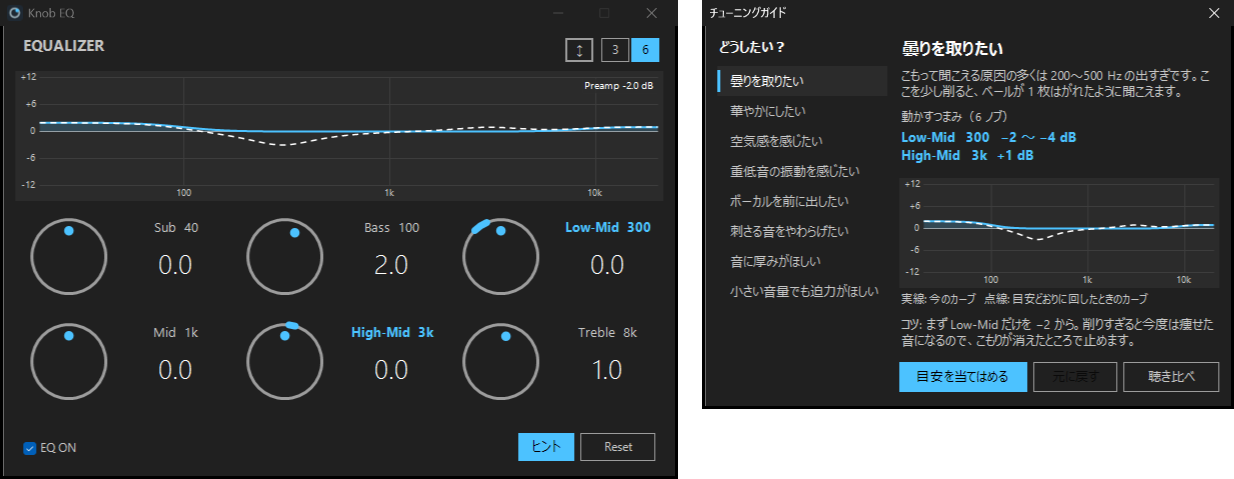
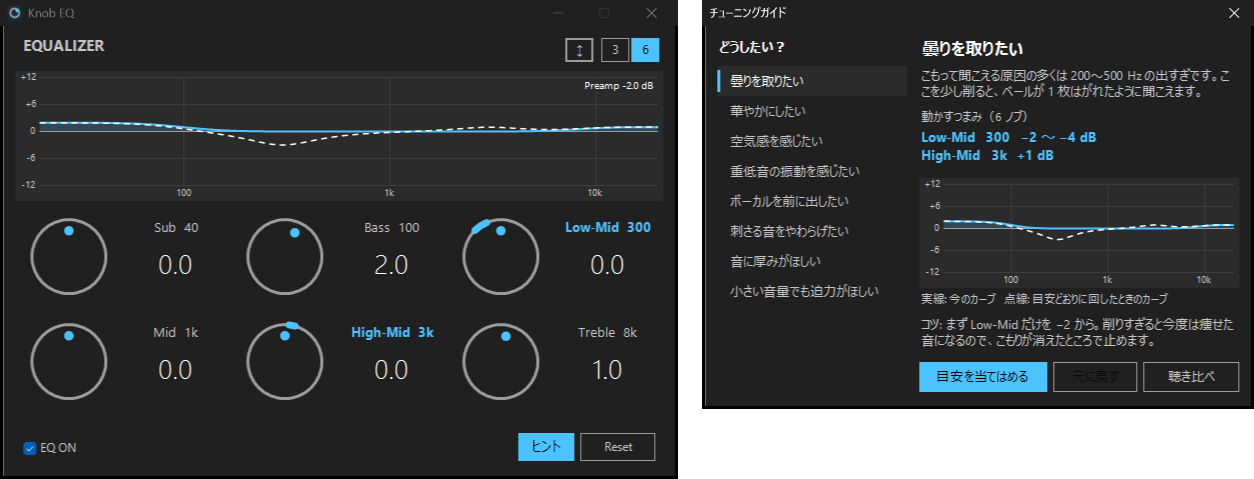
英語に対応
Windows の表示言語が日本語なら日本語、それ以外は英語で表示する。

- 文言を L.T("日本語", "English") で並べて書き、起動時に表示言語で切り替える
- チューニングガイドの 8 つの目的・説明・コツ (3 ノブ / 6 ノブ) を英訳。
  言語が決まってから作るよう、目的の一覧は最初に使われたときに作る
- 注意表示、ボタン、ツールチップ、エラーメッセージ、knobeq.txt の
  先頭コメントも英語に対応
- 英語の目的名が入るよう、ガイドの一覧の幅を 170 から 190 に広げた
- 見た目確認用ビルドで KNOBEQ_LANG (ja / en) と KNOBEQ_WARN=none を使えるようにし、
  make-screenshots.ps1 に -Lang を追加 (英語版は site/images/en/ に保存)
- README に英語の説明を追加

diff --git a/src/KnobEQ.cs b/src/KnobEQ.cs
@@ -14,11 +14,30 @@ using Microsoft.Win32;
 // exe のプロパティに出る情報。配布用 ZIP の名前（package.ps1）も AssemblyInformationalVersion から決まる
 [assembly: AssemblyTitle("KnobEQ")]
 [assembly: AssemblyProduct("KnobEQ")]
-[assembly: AssemblyDescription("Equalizer APO 用のつまみ式イコライザ")]
+[assembly: AssemblyDescription("Knob-style equalizer for Equalizer APO")]
 [assembly: AssemblyCopyright("© 2026 Walt-Owen")]
 [assembly: AssemblyVersion("1.0.0.0")]
 [assembly: AssemblyFileVersion("1.0.0.0")]
 [assembly: AssemblyInformationalVersion("1.0.0")]
+
+// 画面の言語。Windows の表示言語が日本語なら日本語、それ以外は英語
+static class L
+{
+    public static bool Ja;
+
+    public static void Init()
+    {
+        Ja = CultureInfo.CurrentUICulture.TwoLetterISOLanguageName == "ja";
+#if UI_TEST
+        // 見た目確認用のビルドだけ、環境変数で言語を強制できる
+        string force = Environment.GetEnvironmentVariable("KNOBEQ_LANG");
+        if (force == "ja") Ja = true; else if (force == "en") Ja = false;
+#endif
+    }
+
+    // 日本語と英語の文言を並べて書き、今の言語の方を返す
+    public static string T(string ja, string en) { return Ja ? ja : en; }
+}
 
 // Windows のライト／ダークモードとアクセントカラーに合わせた配色
 static class Theme
@@ -151,6 +170,7 @@ static class AudioCheck
         string force = Environment.GetEnvironmentVariable("KNOBEQ_WARN");
         if (force == "off") { deviceName = "Headphones"; return Status.EnhancementsOff; }
         if (force == "noapo") { deviceName = "Speakers"; return Status.NoApo; }
+        if (force == "none") return Status.Ok;
 #endif
         string id = DefaultRenderId();
         if (id == null) return Status.Unknown;
@@ -292,64 +312,93 @@ static class Recipes
     static Adj A(string band, float lo, float hi) { return new Adj(band, lo, hi); }
     static Adj A(string band, float v) { return new Adj(band, v, v); }
 
-    public static readonly Recipe[] All = new Recipe[] {
+    static string T(string ja, string en) { return L.T(ja, en); }
+
+    // 言語（L.Ja）が決まってから作るよう、最初に使われたときに作る
+    static Recipe[] all;
+    public static Recipe[] All { get { return all ?? (all = Build()); } }
+
+    static Recipe[] Build()
+    {
+        return new Recipe[] {
         new Recipe {
-            Title = "曇りを取りたい",
-            Why = "こもって聞こえる原因の多くは 200〜500 Hz の出すぎです。ここを少し削ると、ベールが 1 枚はがれたように聞こえます。",
+            Title = T("曇りを取りたい", "Remove muddiness"),
+            Why = T("こもって聞こえる原因の多くは 200〜500 Hz の出すぎです。ここを少し削ると、ベールが 1 枚はがれたように聞こえます。",
+                    "Muddiness usually comes from too much energy around 200–500 Hz. Trimming it a little feels like lifting a veil off the sound."),
             Six = new[] { A("Low-Mid", -4, -2), A("High-Mid", 1) },
             Three = new[] { A("Bass", -1), A("Treble", 2) },
-            Tip6 = "まず Low-Mid だけを −2 から。削りすぎると今度は痩せた音になるので、こもりが消えたところで止めます。",
-            Tip3 = "Treble を少しずつ上げ、こもりが消えたところで止めます。Bass を下げすぎると痩せた音になります。" },
+            Tip6 = T("まず Low-Mid だけを −2 から。削りすぎると今度は痩せた音になるので、こもりが消えたところで止めます。",
+                     "Start by lowering only Low-Mid to −2. Cutting too much makes the sound thin, so stop as soon as the muddiness clears."),
+            Tip3 = T("Treble を少しずつ上げ、こもりが消えたところで止めます。Bass を下げすぎると痩せた音になります。",
+                     "Raise Treble a little at a time and stop when the muddiness clears. Lowering Bass too far makes the sound thin.") },
         new Recipe {
-            Title = "華やかにしたい",
-            Why = "キラキラ感は 5 kHz より上にあります。ここを持ち上げると、シンバルや弦の響きが明るくなります。",
+            Title = T("華やかにしたい", "Add sparkle"),
+            Why = T("キラキラ感は 5 kHz より上にあります。ここを持ち上げると、シンバルや弦の響きが明るくなります。",
+                    "Sparkle lives above 5 kHz. Lifting it brightens cymbals and the shimmer of strings."),
             Six = new[] { A("Treble", 2, 4), A("High-Mid", 1) },
             Three = new[] { A("Treble", 3), A("Mid", 1) },
-            Tip6 = "上げすぎると「サ行」が耳に刺さります。歌ものを聴きながら、刺さる手前で止めます。",
-            Tip3 = "上げすぎると「サ行」が耳に刺さります。歌ものを聴きながら、刺さる手前で止めます。" },
+            Tip6 = T("上げすぎると「サ行」が耳に刺さります。歌ものを聴きながら、刺さる手前で止めます。",
+                     "Too much makes \"s\" sounds sting. Listen to vocals and stop just before they get harsh."),
+            Tip3 = T("上げすぎると「サ行」が耳に刺さります。歌ものを聴きながら、刺さる手前で止めます。",
+                     "Too much makes \"s\" sounds sting. Listen to vocals and stop just before they get harsh.") },
         new Recipe {
-            Title = "空気感を感じたい",
-            Why = "音の消え際やホールの響きは、10 kHz 以上のとても小さな成分です。高域をなだらかに持ち上げ、そのすぐ下を少し控えると、刺さらずに広がりが出ます。",
+            Title = T("空気感を感じたい", "Feel more air and space"),
+            Why = T("音の消え際やホールの響きは、10 kHz 以上のとても小さな成分です。高域をなだらかに持ち上げ、そのすぐ下を少し控えると、刺さらずに広がりが出ます。",
+                    "The fade of each note and the sound of the room are tiny details above 10 kHz. Gently lifting the top end while easing off just below it adds space without harshness."),
             Six = new[] { A("Treble", 2, 3), A("High-Mid", -1) },
             Three = new[] { A("Treble", 3), A("Mid", -1) },
-            Tip6 = "静かな曲やライブ録音で試すと分かりやすいです。耳が疲れたら Treble を 1 戻します。",
-            Tip3 = "静かな曲やライブ録音で試すと分かりやすいです。耳が疲れたら Treble を 1 戻します。" },
+            Tip6 = T("静かな曲やライブ録音で試すと分かりやすいです。耳が疲れたら Treble を 1 戻します。",
+                     "Quiet tracks and live recordings make it easiest to hear. If your ears get tired, bring Treble down by 1."),
+            Tip3 = T("静かな曲やライブ録音で試すと分かりやすいです。耳が疲れたら Treble を 1 戻します。",
+                     "Quiet tracks and live recordings make it easiest to hear. If your ears get tired, bring Treble down by 1.") },
         new Recipe {
-            Title = "重低音の振動を感じたい",
-            Why = "体に響く「ズン」は 30〜60 Hz です。Sub を上げ、こもりの原因になる少し上の帯域は控えめにします。",
+            Title = T("重低音の振動を感じたい", "Feel the deep bass rumble"),
+            Why = T("体に響く「ズン」は 30〜60 Hz です。Sub を上げ、こもりの原因になる少し上の帯域は控えめにします。",
+                    "The rumble you feel in your body is around 30–60 Hz. Raise Sub and keep the range just above it modest, since that's where muddiness starts."),
             Six = new[] { A("Sub", 4, 6), A("Bass", 1, 2), A("Low-Mid", -1) },
             Three = new[] { A("Bass", 4, 6) },
-            Tip6 = "ヘッドホンによっては 40 Hz がほとんど出ません。上げても変わらなければ、それ以上は上げないでください（音割れ防止のため全体の音量が下がるだけです）。",
-            Tip3 = "3 ノブの Bass はなだらかに効くので、最も低い帯域は 6 ノブの Sub ほど持ち上がりません。もっと欲しいときは 6 ノブモードを試してください。" },
+            Tip6 = T("ヘッドホンによっては 40 Hz がほとんど出ません。上げても変わらなければ、それ以上は上げないでください（音割れ防止のため全体の音量が下がるだけです）。",
+                     "Some headphones barely reproduce 40 Hz. If raising it changes nothing, don't push further (it only lowers the overall volume to prevent clipping)."),
+            Tip3 = T("3 ノブの Bass はなだらかに効くので、最も低い帯域は 6 ノブの Sub ほど持ち上がりません。もっと欲しいときは 6 ノブモードを試してください。",
+                     "In 3-knob mode Bass works gently, so the very lowest range won't rise as much as with Sub in 6-knob mode. Try 6-knob mode if you want more.") },
         new Recipe {
-            Title = "ボーカルを前に出したい",
-            Why = "声の聞き取りやすさは 1〜4 kHz で決まります。ここを少し上げ、声を覆う低い中域を控えます。",
+            Title = T("ボーカルを前に出したい", "Bring vocals forward"),
+            Why = T("声の聞き取りやすさは 1〜4 kHz で決まります。ここを少し上げ、声を覆う低い中域を控えます。",
+                    "Vocal clarity is decided around 1–4 kHz. Lift it a little and ease off the lower mids that cover the voice."),
             Six = new[] { A("High-Mid", 2), A("Mid", 1), A("Low-Mid", -1) },
             Three = new[] { A("Mid", 2) },
-            Tip6 = "上げるのは +2 まで。それ以上は耳障りになりやすいです。",
-            Tip3 = "上げるのは +2 まで。それ以上は耳障りになりやすいです。" },
+            Tip6 = T("上げるのは +2 まで。それ以上は耳障りになりやすいです。", "Stay within +2. Beyond that it easily becomes harsh."),
+            Tip3 = T("上げるのは +2 まで。それ以上は耳障りになりやすいです。", "Stay within +2. Beyond that it easily becomes harsh.") },
         new Recipe {
-            Title = "刺さる音をやわらげたい",
-            Why = "耳に刺さる・シャリシャリするのは、3〜8 kHz の出すぎです。ここを少し削ります。",
+            Title = T("刺さる音をやわらげたい", "Tame harsh sounds"),
+            Why = T("耳に刺さる・シャリシャリするのは、3〜8 kHz の出すぎです。ここを少し削ります。",
+                    "Sounds that sting or sizzle come from too much energy around 3–8 kHz. Trim it a little."),
             Six = new[] { A("High-Mid", -3, -2), A("Treble", -2, -1) },
             Three = new[] { A("Treble", -2), A("Mid", -1) },
-            Tip6 = "削りすぎるとこもった音になります。長時間聴いて疲れないところが目安です。",
-            Tip3 = "削りすぎるとこもった音になります。長時間聴いて疲れないところが目安です。" },
+            Tip6 = T("削りすぎるとこもった音になります。長時間聴いて疲れないところが目安です。",
+                     "Cutting too much makes the sound dull. Aim for a setting you can listen to for hours without fatigue."),
+            Tip3 = T("削りすぎるとこもった音になります。長時間聴いて疲れないところが目安です。",
+                     "Cutting too much makes the sound dull. Aim for a setting you can listen to for hours without fatigue.") },
         new Recipe {
-            Title = "音に厚みがほしい",
-            Why = "音の太さや温かみは 100〜400 Hz にあります。ここを少し足すと、痩せた音に厚みが出ます。",
+            Title = T("音に厚みがほしい", "Add body and warmth"),
+            Why = T("音の太さや温かみは 100〜400 Hz にあります。ここを少し足すと、痩せた音に厚みが出ます。",
+                    "Body and warmth live around 100–400 Hz. Adding a little gives thin-sounding music more weight."),
             Six = new[] { A("Low-Mid", 2), A("Bass", 1) },
             Three = new[] { A("Bass", 2), A("Mid", 1) },
-            Tip6 = "足しすぎると「曇り」になります。曇りを感じたら Low-Mid を戻します。",
-            Tip3 = "足しすぎると「曇り」になります。曇りを感じたら Bass を戻します。" },
+            Tip6 = T("足しすぎると「曇り」になります。曇りを感じたら Low-Mid を戻します。",
+                     "Too much turns into muddiness. If it gets muddy, bring Low-Mid back down."),
+            Tip3 = T("足しすぎると「曇り」になります。曇りを感じたら Bass を戻します。",
+                     "Too much turns into muddiness. If it gets muddy, bring Bass back down.") },
         new Recipe {
-            Title = "小さい音量でも迫力がほしい",
-            Why = "人の耳は、音量が小さいと低音と高音を感じにくくなります。両端を少し足すと、小音量でもバランスよく聞こえます。",
+            Title = T("小さい音量でも迫力がほしい", "Full sound at low volume"),
+            Why = T("人の耳は、音量が小さいと低音と高音を感じにくくなります。両端を少し足すと、小音量でもバランスよく聞こえます。",
+                    "At low volume our ears are less sensitive to bass and treble. Adding a little at both ends keeps the balance when you listen quietly."),
             Six = new[] { A("Bass", 3), A("Treble", 2) },
             Three = new[] { A("Bass", 3), A("Treble", 2) },
-            Tip6 = "大きな音量に戻したら、つまみも戻すのがおすすめです。",
-            Tip3 = "大きな音量に戻したら、つまみも戻すのがおすすめです。" },
-    };
+            Tip6 = T("大きな音量に戻したら、つまみも戻すのがおすすめです。", "When you turn the volume back up, it's best to bring the knobs back too."),
+            Tip3 = T("大きな音量に戻したら、つまみも戻すのがおすすめです。", "When you turn the volume back up, it's best to bring the knobs back too.") },
+        };
+    }
 }
 
 // 1 つのつまみが担当するフィルター
@@ -543,7 +592,7 @@ class ResponseGraph : Control
 // チューニングガイド: 目的を選ぶと、動かすつまみと目安を本体の画面に示す（本体の横に開く）
 class GuideForm : Form
 {
-    const int ListW = 170, RightX = 12 + ListW + 12, RightW = 320;
+    const int ListW = 190, RightX = 12 + ListW + 12, RightW = 320;
     readonly MainForm main;
     ListBox list;
     Label title, why, section, adjust, caption, tip;
@@ -553,7 +602,7 @@ class GuideForm : Form
     public GuideForm(MainForm main)
     {
         this.main = main;
-        Text = "チューニングガイド";
+        Text = L.T("チューニングガイド", "Tuning Guide");
         FormBorderStyle = FormBorderStyle.FixedSingle;
         MaximizeBox = MinimizeBox = false;
         ShowInTaskbar = false;
@@ -562,7 +611,7 @@ class GuideForm : Form
         Font = new Font("Segoe UI", 9f);
 
         Label head = NewLabel(12, 12, ListW, 10f, FontStyle.Bold);
-        head.Text = "どうしたい？";
+        head.Text = L.T("どうしたい？", "What do you want?");
         head.Name = "head";
 
         list = new ListBox();
@@ -588,16 +637,16 @@ class GuideForm : Form
         mini.Size = new Size(RightW, 110);
         Controls.Add(mini);
         caption = NewLabel(RightX, 0, RightW, 8f, FontStyle.Regular);
-        caption.Text = "実線: 今のカーブ　点線: 目安どおりに回したときのカーブ";
+        caption.Text = L.T("実線: 今のカーブ　点線: 目安どおりに回したときのカーブ", "Solid: current curve   Dashed: with the suggested settings");
         tip = NewLabel(RightX, 0, RightW, 9f, FontStyle.Regular);
 
-        apply = NewButton("目安を当てはめる", 128);
-        undo = NewButton("元に戻す", 84);
-        ab = NewButton("聴き比べ", 96);
+        apply = NewButton(L.T("目安を当てはめる", "Apply suggestion"), 128);
+        undo = NewButton(L.T("元に戻す", "Undo"), 84);
+        ab = NewButton(L.T("聴き比べ", "A/B compare"), 96);
         ToolTip tips = new ToolTip();
-        tips.SetToolTip(apply, "目安の真ん中の値に、つまみをまとめて動かします");
-        tips.SetToolTip(undo, "「目安を当てはめる」を押す前の値に戻します");
-        tips.SetToolTip(ab, "EQ の ON / OFF を切り替えて、補正のありなしを聴き比べます");
+        tips.SetToolTip(apply, L.T("目安の真ん中の値に、つまみをまとめて動かします", "Moves the knobs to the middle of the suggested range"));
+        tips.SetToolTip(undo, L.T("「目安を当てはめる」を押す前の値に戻します", "Restores the values from before you applied the suggestion"));
+        tips.SetToolTip(ab, L.T("EQ の ON / OFF を切り替えて、補正のありなしを聴き比べます", "Turns the EQ on or off so you can compare with and without it"));
         apply.Click += delegate { Recipe r = Selected; if (r != null) main.ApplyRecipe(r); UpdateButtons(); };
         undo.Click += delegate { main.UndoRecipe(); UpdateButtons(); };
         ab.Click += delegate { main.ToggleEq(); };
@@ -651,17 +700,18 @@ class GuideForm : Form
         bool three = main.ThreeMode;
         title.Text = r.Title;
         why.Text = r.Why;
-        section.Text = "動かすつまみ（" + (three ? "3" : "6") + " ノブ）";
+        section.Text = L.T("動かすつまみ（" + (three ? "3" : "6") + " ノブ）", "Knobs to turn (" + (three ? "3" : "6") + "-knob mode)");
         StringBuilder sb = new StringBuilder();
         foreach (Adj a in r.For(three))
         {
             Band b = main.FindBand(a.Band);
             // 「−2 〜 −4」のように、小さく動かす側から書く
-            string range = a.Lo == a.Hi ? Db(a.Lo) : a.Hi <= 0 ? Db(a.Hi) + " 〜 " + Db(a.Lo) : Db(a.Lo) + " 〜 " + Db(a.Hi);
+            string to = L.T(" 〜 ", " to ");
+            string range = a.Lo == a.Hi ? Db(a.Lo) : a.Hi <= 0 ? Db(a.Hi) + to + Db(a.Lo) : Db(a.Lo) + to + Db(a.Hi);
             sb.AppendLine(b.DisplayName + "　" + range + " dB");
         }
         adjust.Text = sb.ToString().TrimEnd();
-        tip.Text = "コツ: " + r.TipFor(three);
+        tip.Text = L.T("コツ: ", "Tip: ") + r.TipFor(three);
 
         SuspendLayout();
         int y = Place(title, 12, 6);
@@ -799,8 +849,8 @@ class MainForm : Form
         layoutBtn.Click += delegate { SetHorizontal(!horizontal); };
         mode3Btn = AddButton("3", 0, 0, 28, 24);
         mode6Btn = AddButton("6", 0, 0, 28, 24);
-        tip.SetToolTip(mode3Btn, "3 ノブ（Treble / Mid / Bass）");
-        tip.SetToolTip(mode6Btn, "6 ノブ（全バンド）");
+        tip.SetToolTip(mode3Btn, L.T("3 ノブ（Treble / Mid / Bass）", "3 knobs (Treble / Mid / Bass)"));
+        tip.SetToolTip(mode6Btn, L.T("6 ノブ（全バンド）", "6 knobs (all bands)"));
         mode3Btn.Click += delegate { SetMode(true); };
         mode6Btn.Click += delegate { SetMode(false); };
 
@@ -829,7 +879,8 @@ class MainForm : Form
             b.NameLabel = AddLabel(b.DisplayName, 0, 0, 105, 10f, FontStyle.Regular, ContentAlignment.MiddleCenter);
             b.ValueLabel = AddLabel("0.0", 0, 0, 105, 20f, FontStyle.Regular, ContentAlignment.MiddleCenter);
 
-            tip.SetToolTip(b.Knob, "上下ドラッグ / ホイールで調整（Shift で微調整）\nダブルクリックで 0 dB");
+            tip.SetToolTip(b.Knob, L.T("上下ドラッグ / ホイールで調整（Shift で微調整）\nダブルクリックで 0 dB",
+                                       "Drag up/down or scroll to adjust (hold Shift for fine control)\nDouble-click to reset to 0 dB"));
             b.Knob.ValueChanged += delegate
             {
                 // 表示中のつまみの値を、今のモードの値として覚える
@@ -847,8 +898,8 @@ class MainForm : Form
         Controls.Add(onBox);
 
         // チューニングガイドを開く／閉じる
-        hintBtn = AddButton("ヒント", 0, 0, 56, 28);
-        tip.SetToolTip(hintBtn, "目的に合わせたチューニングのヒント");
+        hintBtn = AddButton(L.T("ヒント", "Guide"), 0, 0, 56, 28);
+        tip.SetToolTip(hintBtn, L.T("目的に合わせたチューニングのヒント", "Tuning tips for the sound you want"));
         hintBtn.Click += delegate { ToggleGuide(); };
         LocationChanged += delegate { if (guide != null) guide.FollowMain(); };
         SizeChanged += delegate { if (guide != null) guide.FollowMain(); };
@@ -936,11 +987,13 @@ class MainForm : Form
         if (s == warnStatus && device == warnDevice) return;
         warnStatus = s; warnDevice = device;
 
-        string name = string.IsNullOrEmpty(device) ? "今の出力先" : "「" + device + "」";
+        string name = string.IsNullOrEmpty(device) ? L.T("今の出力先", "the current output device") : L.T("「" + device + "」", "\"" + device + "\"");
         if (s == AudioCheck.Status.EnhancementsOff)
-            warnLabel.Text = "⚠ " + name + "の「オーディオの機能強化」がオフのため、EQ が効いていません。\nクリックでサウンド設定を開く";
+            warnLabel.Text = L.T("⚠ " + name + "の「オーディオの機能強化」がオフのため、EQ が効いていません。\nクリックでサウンド設定を開く",
+                                 "⚠ Audio enhancements are turned off for " + name + ", so the EQ has no effect.\nClick to open Sound settings");
         else if (s == AudioCheck.Status.NoApo)
-            warnLabel.Text = "⚠ " + name + "には Equalizer APO が入っていないため、EQ が効きません。\nクリックで Equalizer APO の設定を開く";
+            warnLabel.Text = L.T("⚠ " + name + "には Equalizer APO が入っていないため、EQ が効きません。\nクリックで Equalizer APO の設定を開く",
+                                 "⚠ Equalizer APO isn't installed for " + name + ", so the EQ has no effect.\nClick to open the Equalizer APO Configurator");
         // ウィンドウ表示前は Visible が常に false を返すので、表示するかどうかは自前で覚えておく
         warnShown = s == AudioCheck.Status.EnhancementsOff || s == AudioCheck.Status.NoApo;
         warnLabel.Visible = warnShown;
@@ -956,7 +1009,7 @@ class MainForm : Form
             else
                 System.Diagnostics.Process.Start("ms-settings:sound");
         }
-        catch (Exception ex) { MessageBox.Show("設定画面を開けませんでした:\n" + ex.Message, Text); }
+        catch (Exception ex) { MessageBox.Show(L.T("設定画面を開けませんでした:\n", "Couldn't open the settings:\n") + ex.Message, Text); }
     }
 
     public bool IsActive(Band b) { return !threeMode || b.InThree; }
@@ -1082,7 +1135,7 @@ class MainForm : Form
         mode3Btn.Location = new Point(width - 74, 12);
         layoutBtn.Location = new Point(width - 110, 12);
         layoutBtn.Text = horizontal ? "↕" : "↔";
-        tip.SetToolTip(layoutBtn, horizontal ? "縦レイアウトにする" : "横レイアウトにする");
+        tip.SetToolTip(layoutBtn, horizontal ? L.T("縦レイアウトにする", "Switch to vertical layout") : L.T("横レイアウトにする", "Switch to horizontal layout"));
 
         int top = ContentTop;
         if (warnShown)
@@ -1267,7 +1320,7 @@ class MainForm : Form
         }
         catch (Exception ex)
         {
-            MessageBox.Show("config.txt を更新できませんでした:\n" + ex.Message, Text);
+            MessageBox.Show(L.T("config.txt を更新できませんでした:\n", "Couldn't update config.txt:\n") + ex.Message, Text);
         }
     }
 
@@ -1291,7 +1344,7 @@ class MainForm : Form
         state.Append(on ? " on" : " off");
 
         StringBuilder sb = new StringBuilder();
-        sb.AppendLine("# KnobEQ が自動生成するファイルです（手で編集しても上書きされます）");
+        sb.AppendLine(L.T("# KnobEQ が自動生成するファイルです（手で編集しても上書きされます）", "# Generated by KnobEQ (manual edits will be overwritten)"));
         sb.AppendLine(state.ToString());
         if (on)
         {
@@ -1311,13 +1364,14 @@ class MainForm : Form
             }
         }
         try { File.WriteAllText(eqFile, sb.ToString(), new UTF8Encoding(false)); }
-        catch (Exception ex) { Text = "Knob EQ (保存エラー)"; Console.Error.WriteLine(ex.Message); }
+        catch (Exception ex) { Text = L.T("Knob EQ (保存エラー)", "Knob EQ (save error)"); Console.Error.WriteLine(ex.Message); }
     }
 
     [STAThread]
     static void Main()
     {
         Application.EnableVisualStyles();
+        L.Init();
         Application.Run(new MainForm());
     }
 }
